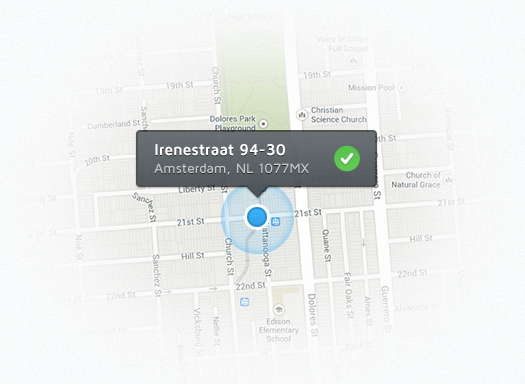
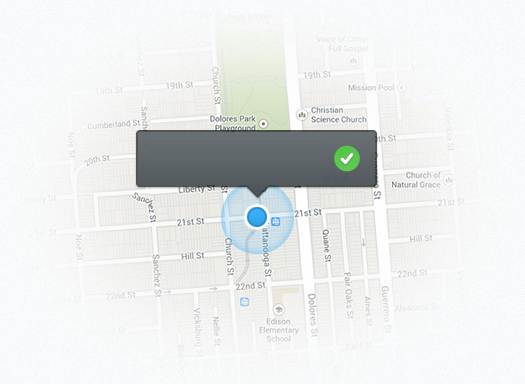
HTML address.

Changed region(s): [[0.2743, 0.375, 0.579, 0.4688]]

diff --git a/index.html b/index.html
@@ -115,6 +115,13 @@ $ curl https://api.lob.com/v1/verify \ <br>
 				<h1>Address verification <br> done right</h1>
 				<p>International address validation has never been easier. Verify address down to the street and building level. Over 150 countries supported!</p>
 			</div>
+
+			<div class="right about_map">
+				<div class="tooltip">
+            <strong>Irenestraat 94-30</strong>
+            Amsterdam, NL 1077MX
+          </div>
+			</div>
 		</section>
 	</div>
 	<div class="light">

diff --git a/css/main.css b/css/main.css
@@ -1145,6 +1145,11 @@ footer ul li a:hover {
   width: 211px;
 }
 
+.address .about_map .tooltip {
+  left: 23px;
+  top: -138px;
+}
+
 .about_map .tooltip strong {
   color: #fff;
   display: block;
